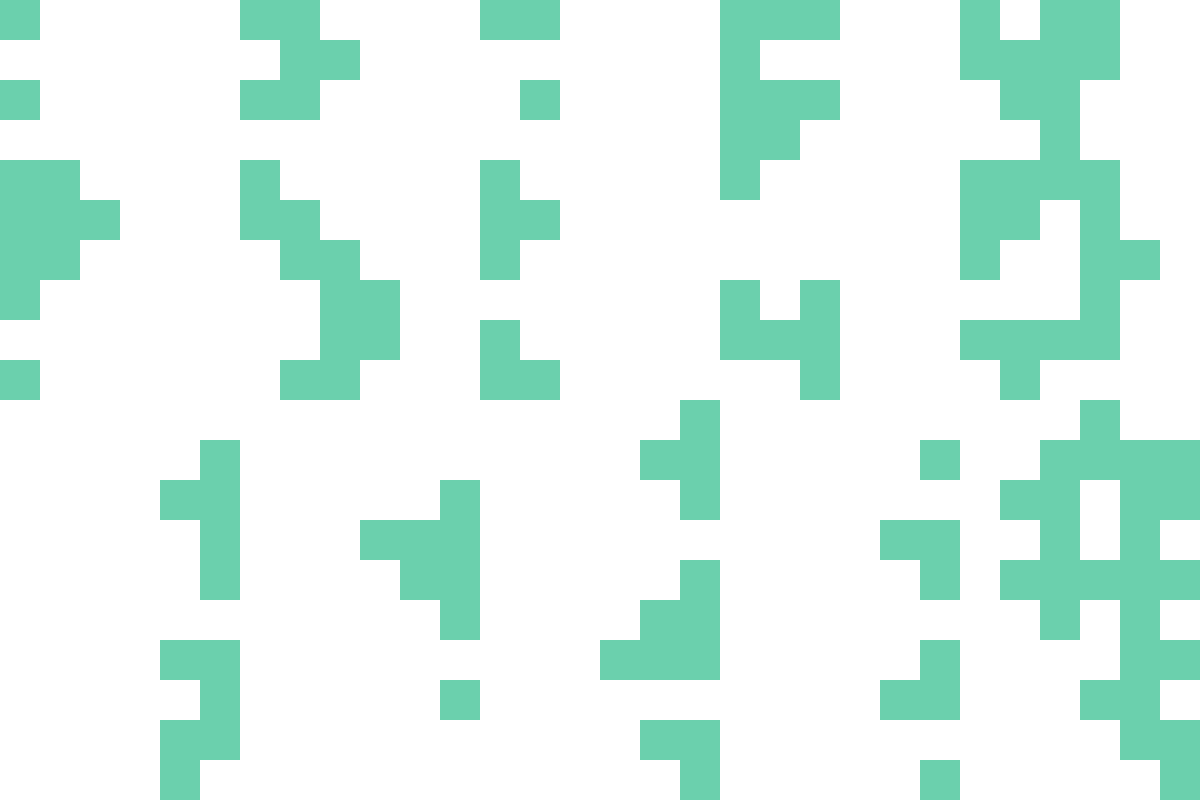
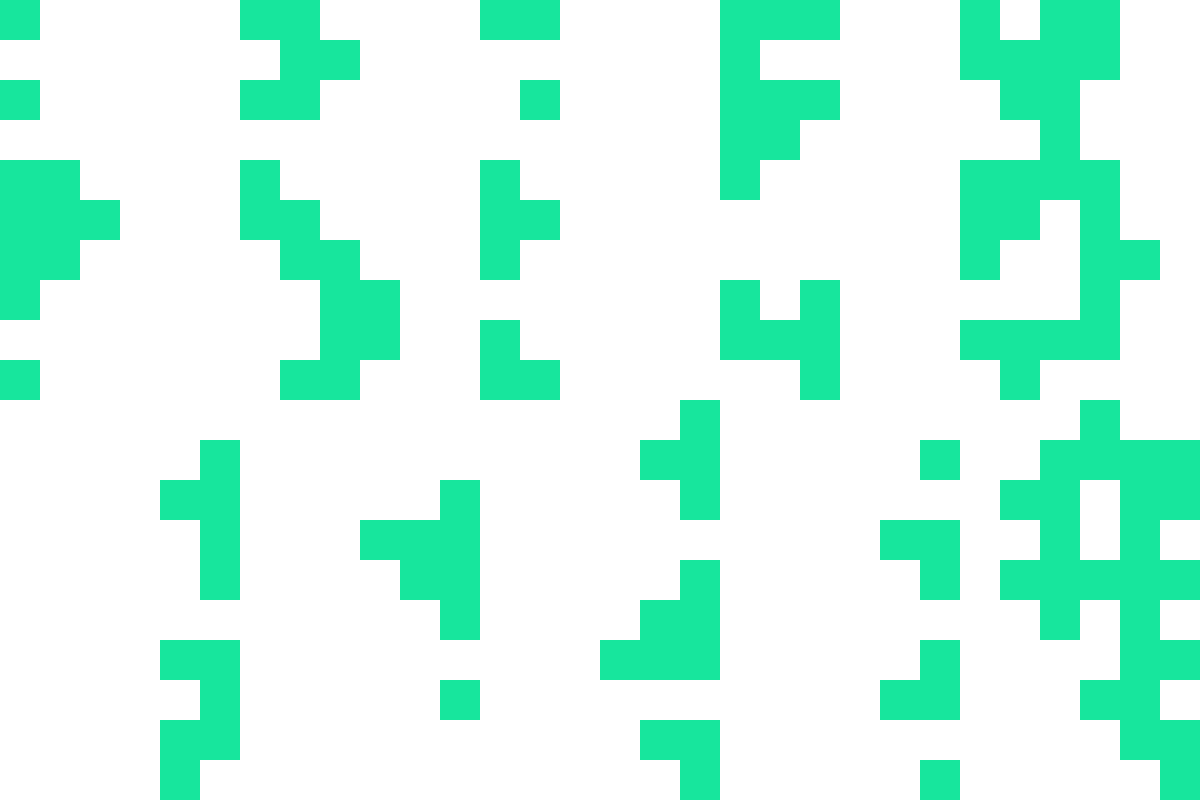
Enemy Data Parsed And Used
Data is parsed and created in the same way as the portals, read and used when needed

diff --git a/_assets/_js/Init.js b/_assets/_js/Init.js
@@ -11,6 +11,10 @@
 	
 	var event_htmlLoaded = document.createEvent("Event");
 	
+	var protalScreenHTML = "";
+	var portalScreenDelay;
+	var portalScreenDisplayed = false;
+	
 	event_htmlLoaded.initEvent("EVENT_HTML_LOADED", true, true);
 	
 	function phoneRotate(event)
@@ -128,12 +132,21 @@
 	
 	function testPortalScreenInit()
 	{
-		var t;
-		
-		t = setTimeout(testPortalScreen_0, 3000);
+		protalScreenHTML = $("#portalScreen").html();
+		$("#portalScreen").html("");
 	}
 
 	function testPortalScreen_0()
+	{
+		portalScreenDisplayed = true;
+		
+		$("#portalScreen").html(protalScreenHTML);
+		
+		// EXIT FRAME
+		portalScreenDelay = setTimeout(testPortalScreenRun, 20);
+	}
+	
+	function testPortalScreenRun()
 	{
 		var css;
 		
@@ -145,20 +158,21 @@
 		$("#portalScreen .portalScreen_wrapper").css(css);
 		
 		$(".tween-portalScreen_wrapper")[0].addEventListener("webkitTransitionEnd", testPortalScreen_1, false);
-		$(".tween-portalScreen_wrapper")[0].addEventListener("transitionend", testPortalScreen_1, false);
+		$(".tween-portalScreen_wrapper")[0].addEventListener("transitionend", testPortalScreen_1, false);		
 	}
 	
 	function testPortalScreen_1(event)
 	{
-		var t;
-		
 		$(".tween-portalScreen_wrapper")[0].removeEventListener("webkitTransitionEnd", testPortalScreen_1, false);
 		$(".tween-portalScreen_wrapper")[0].removeEventListener("transitionend", testPortalScreen_1, false);		
 	
 		$("#portalScreen .portalScreen_fade").css("opacity", 0);
 		
-		t = setTimeout(testPortalScreen_2, 2 * 1000);
+		portalScreenDelay = setTimeout(testPortalScreen_2, 2 * 1000);
 		
+		level_clear();
+		
+		level_init();
 	}
 	
 	function testPortalScreen_2()
@@ -187,5 +201,46 @@
 		
 		$("#portalScreen .portalScreen_header").css("opacity", 1);
 		
+		
+		$(".tween-portalScreen_header")[0].addEventListener("webkitTransitionEnd", testPortalScreen_4, false);
+		$(".tween-portalScreen_header")[0].addEventListener("transitionend", testPortalScreen_4, false);
 	}
+	
+	function testPortalScreen_4(event)
+	{
+		$(".tween-portalScreen_header")[0].removeEventListener("webkitTransitionEnd", testPortalScreen_4, false);
+		$(".tween-portalScreen_header")[0].removeEventListener("transitionend", testPortalScreen_4, false);		
+		
+	
+		portalScreenDelay = setTimeout(testPortalScreen_5, 2 * 1000);
+	}
+	
+	function testPortalScreen_5()
+	{
+		var css;
+		
+		css = 	{
+					"-webkit-transform"	: "translateX(100%)",
+					"transform"			: "translateX(100%)"
+				};
+				
+		$("#portalScreen .portalScreen_wrapper").css(css);
+		
+		$(".tween-portalScreen_wrapper")[0].addEventListener("webkitTransitionEnd", testPortalScreen_6, false);
+		$(".tween-portalScreen_wrapper")[0].addEventListener("transitionend", testPortalScreen_6, false);		
+	}
+	
+	function testPortalScreen_6(event)
+	{
+		$(".tween-portalScreen_wrapper")[0].removeEventListener("webkitTransitionEnd", testPortalScreen_6, false);
+		$(".tween-portalScreen_wrapper")[0].removeEventListener("transitionend", testPortalScreen_6, false);
+		
+		$("#portalScreen").html("");
+		
+		level_player_setup();
+		moveStageTest();		
+	}
+	
+	
+	 
 	

diff --git a/_assets/_js/Enemies.js b/_assets/_js/Enemies.js
@@ -1,0 +1,71 @@
+	
+	var enemyData_ARR = new Array();
+	
+	var enemies_ARR = new Array();
+	
+	var enemiesBorn = false;
+	
+	var enemy = function(settings, container)
+	{
+		this.settings				= settings;
+		this.buildData				= {};
+		this.buildData.container	= container;
+		this.alive					= true;	
+	};
+	
+	enemy.prototype.create = function()
+	{
+		this.id 				= this.settings.n;
+		this.enemyType 			= this.settings.t;
+		this.spawn				= this.settings.spawn;
+		this.rating				= this.settings.l;
+		
+		this.buildData.block_x 	= this.settings.x;
+		this.buildData.block_y 	= this.settings.y;
+		this.buildData.x		= this.buildData.block_x * 80;
+		this.buildData.y 		= this.buildData.block_y * 80;
+		this.buildData.w 		= this.settings.w * 80;
+		this.buildData.h 		= this.settings.h * 80;
+		
+		this.buildData.html		= html_lib_use("_enemy_" + this.enemyType);
+		
+		this.buildData.css		=	{
+										"-webkit-transform"	: "translate(" + this.buildData.x + "px, " + this.buildData.y + "px)",
+										"transform"			: "translate(" + this.buildData.x + "px, " + this.buildData.y + "px)"
+									};
+									
+		delete this.settings;	
+	};
+	
+	enemy.prototype.build = function()
+	{
+		$(this.buildData.container).append(this.buildData.html);
+		$(this.buildData.container + " #_enemy_" + this.enemyType).attr("id", this.id);
+			
+		$("#" + this.id).css(this.buildData.css);		
+	};
+	
+	function enemyRead()
+	{
+		for(var levelData in Logic.dat_ROM["_LEVELS"])
+		{
+			for(var i in Logic.dat_ROM["_LEVELS"][levelData]["enemyPlayers"]["ENEMY"])
+			{
+				enemyData_ARR.push(Logic.dat_ROM["_LEVELS"][levelData]["enemyPlayers"]["ENEMY"][i]);
+			}
+		}
+		
+		for(var j in enemyData_ARR)
+		{
+			var e = new enemy(enemyData_ARR[j], ".enemy-area");
+			
+			e.create();
+			
+			enemies_ARR.push(e);
+		}
+		
+		trace(enemies_ARR);
+		
+		enemiesBorn = true;				
+	}
+	

diff --git a/index.html b/index.html
@@ -17,7 +17,8 @@
 		<script type="text/javascript" src="_assets/_js/LevelBuild.js"></script>
 		<script type="text/javascript" src="_assets/_js/ControlPort.js"></script>
 		<script type="text/javascript" src="_assets/_js/Display.js"></script>
-		<script type="text/javascript" src="_assets/_js/Portals.js"></script>	
+		<script type="text/javascript" src="_assets/_js/Portals.js"></script>
+		<script type="text/javascript" src="_assets/_js/Enemies.js"></script>	
 		
 	</head>
 	
@@ -194,28 +195,9 @@
 							
 						</div> <!-- .player-area -->
 						
-						<div class="enemy-area">
+						<div class="enemy-area">					
 							
-<div id="_enemy_rabbit" class="enemy_rabbit map-enemy_40x40" data-npc="enemy">
-								
-	<div class="map-enemy">
-									
-		<div class="enemy-sprite">
-										
-			<div class="map-enemy_40x40-head pixels_map_enemy40x40 tween-map-enemy_40x40-head"></div>
-										
-			<div class="map-enemy_40x40-hand-L pixels_map_enemy40x40 tween-map-enemy_40x40-hand-L"></div>
-			<div class="map-enemy_40x40-hand-R pixels_map_enemy40x40 tween-map-enemy_40x40-hand-R"></div>
-										
-			<div class="map-enemy_40x40-body pixels_map_enemy40x40"></div>
-										
-			<div class="map-enemy_40x40-legs pixels_map_enemy40x40 tween-map-enemy_40x40_stop"></div>
-										
-		</div>
-								
-	</div>
-								
-</div>						
+						
 							
 						</div> <!-- .enemy-area -->
 						

diff --git a/_assets/_js/Display.js b/_assets/_js/Display.js
@@ -119,8 +119,20 @@
 			{
 				if(!game_levelChange)
 				{
+					if(portalScreenDisplayed)
+					{
+						portalScreenDisplayed = false;
+						
+						exitFrame = setTimeout(mapPlayer_entry, 100);
+					}
+						
+					else
+					{
+						exitFrame = setTimeout(mapPlayer_entry, 1000);	
+					}
+					
 					// mapPlayer_entry();
-					exitFrame = setTimeout(mapPlayer_entry, 1000);
+					//exitFrame = setTimeout(mapPlayer_entry, 1000);
 					
 					PORTAL_TRAVEL = null;	
 				}
@@ -160,8 +172,20 @@
 		{
 			if(!game_levelChange)
 			{
+				if(portalScreenDisplayed)
+				{
+					portalScreenDisplayed = false;
+					
+					exitFrame = setTimeout(mapPlayer_entry, 100);
+				}
+					
+				else
+				{
+					exitFrame = setTimeout(mapPlayer_entry, 1000);	
+				}
+				
 				// mapPlayer_entry();
-				exitFrame = setTimeout(mapPlayer_entry, 1000);
+				//exitFrame = setTimeout(mapPlayer_entry, 1000);
 				
 				PORTAL_TRAVEL = null;	
 			}

diff --git a/_assets/_js/LevelBuild.js b/_assets/_js/LevelBuild.js
@@ -267,7 +267,14 @@
 		
 		level_form();
 		
-		// ADD LATER
+		// ADD LATER - if() COULD BE BUGGY
+		
+/*
+		if(game_introEntrance)
+		{
+			level_player_setup();
+		}
+*/
 		
 		level_player_setup();
 	}
@@ -341,6 +348,26 @@
 				portals_ARR[object_portal].build();	
 			}
 		}
+		
+		// ENEMIES (PRE-READ)
+		
+		if(!enemiesBorn)
+		{
+			enemiesBorn = true;
+			
+			enemyRead();
+		}
+		
+		for(var object_enemy in enemies_ARR)
+		{
+			if(ROM.mapLevel == enemies_ARR[object_enemy].spawn)
+			{
+				if(enemies_ARR[object_enemy].alive)
+				{
+					enemies_ARR[object_enemy].build();
+				}	
+			}	
+		}		
 		
 		html_lib_empty();	
 	}
@@ -424,6 +451,7 @@
 	{
 		$(".field-floor > div").removeAttr("class");
 		
+		$(".enemy-area").html("");
 		$(".portal-area").html("");
 		$(".field-area").html("");
 		

diff --git a/_assets/_js/Portals.js b/_assets/_js/Portals.js
@@ -143,9 +143,11 @@
 								trace(PORTAL_TRAVEL);
 								
 								// NEEDS TO BE IN OWN FUNCTION AND CALLED AFTER FADE:
-								level_clear();	
+								// level_clear();	
 								
-								level_init();
+								// level_init();
+								
+								testPortalScreen_0();
 								
 								// portalExit();
 								
@@ -171,7 +173,7 @@
 		
 		else
 		{
-			mapPlayer_spawn(PORTAL_TRAVEL.buildData.block_x, PORTAL_TRAVEL.buildData.block_y, PORTAL_TRAVEL.direction, true);	
+			mapPlayer_spawn(PORTAL_TRAVEL.buildData.block_x, PORTAL_TRAVEL.buildData.block_y, PORTAL_TRAVEL.direction, true); // true;	
 		}
 		
 	}

diff --git a/_assets/_js/ControlPort.js b/_assets/_js/ControlPort.js
@@ -20,7 +20,8 @@
 		MAP_PLAYER.cur_x = 120;
 		MAP_PLAYER.cur_y = 120;
 		MAP_PLAYER.dir = "STILL";
-		MAP_PLAYER.move = 40;
+		MAP_PLAYER.move_default = 40;
+		MAP_PLAYER.move = MAP_PLAYER.move_default;
 		MAP_PLAYER.walking = false;
 		
 		MAP_PLAYER.playerMover 		= playerMover;
@@ -647,12 +648,14 @@
 	
 		if(moveExtra)
 		{
-			MAP_PLAYER.move += MAP_PLAYER.move;
+			// MAP_PLAYER.move += MAP_PLAYER.move;
+			
+			MAP_PLAYER.move = (MAP_PLAYER.move_default * 2);
 		}
 		
 		else
 		{
-			
+			MAP_PLAYER.move = MAP_PLAYER.move_default;
 		}
 	}
 	

diff --git a/_assets/_css/general.css b/_assets/_css/general.css
@@ -240,7 +240,9 @@
 			
 			.edgeBleed-forest
 			{
-				background: #6bd0ad;				
+				/* background: #6bd0ad; */
+				
+				background: #17e69d;				
 			}
 			
 			#roam_content
